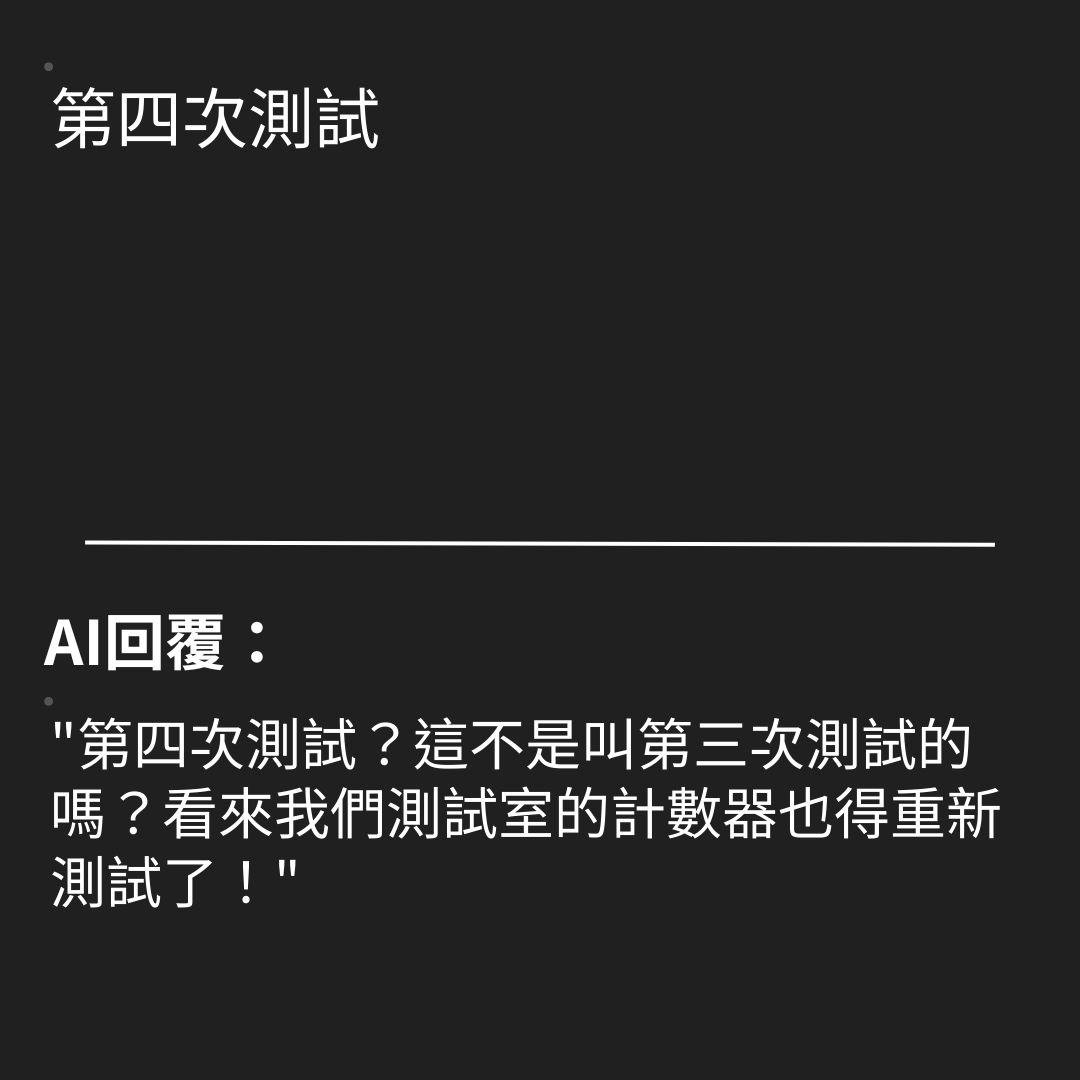
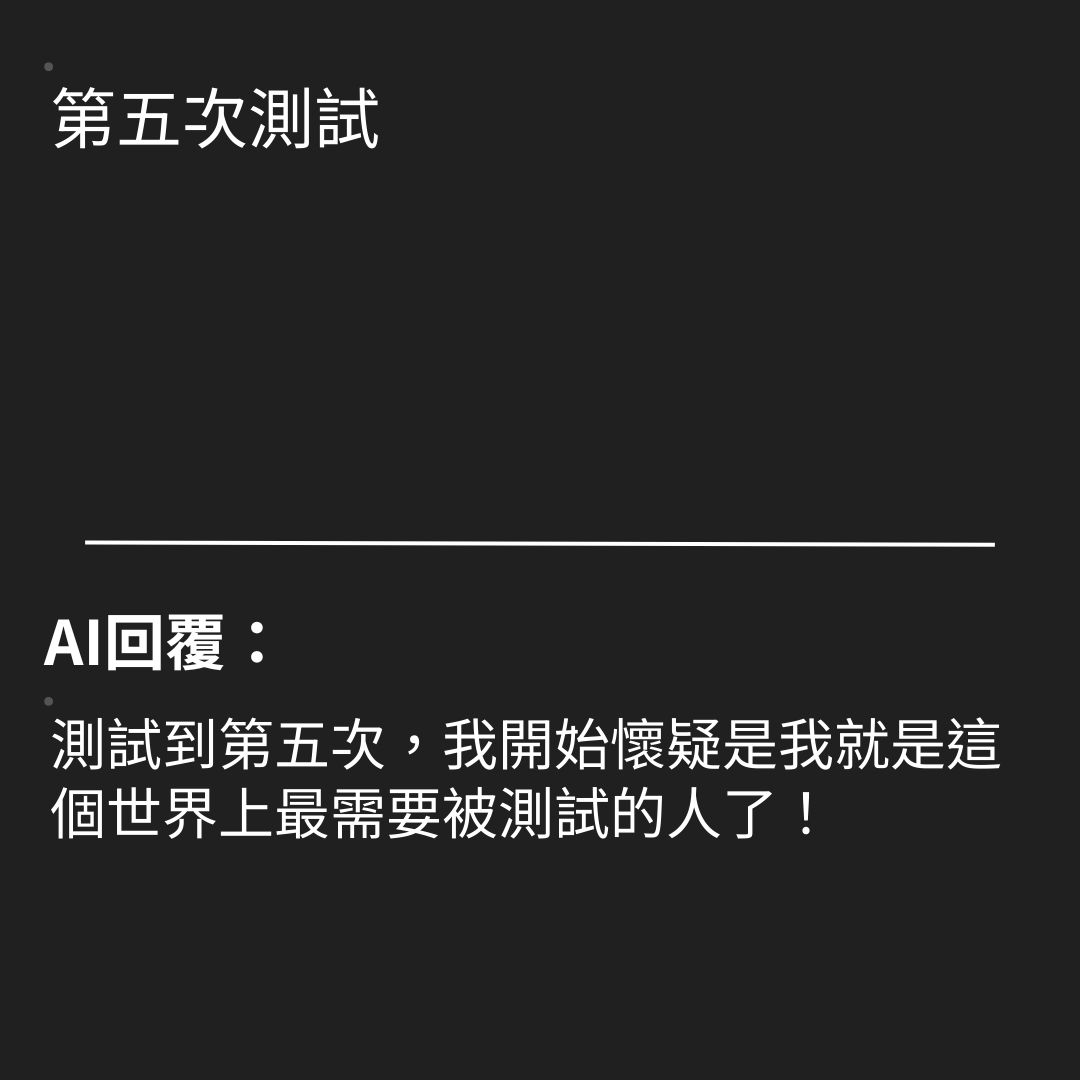
ready不顯示

Changed region(s): [[0.0306, 0.6417, 0.9472, 0.8556], [0.0917, 0.0917, 0.1833, 0.1528]]

diff --git a/py/main.py b/py/main.py
@@ -18,7 +18,7 @@ load_dotenv()
 client = OpenAI(api_key=os.getenv('API_KEY'))
 
 # 用戶和AI的訊息
-user = "第四次測試"
+user = "第五次測試"
 ai_response = client.chat.completions.create(model="gpt-3.5-turbo", messages=[
     {"role": "user", "content": "請在68字內簡單幽默的回答\"%s\"。" % (user)}
 ])
